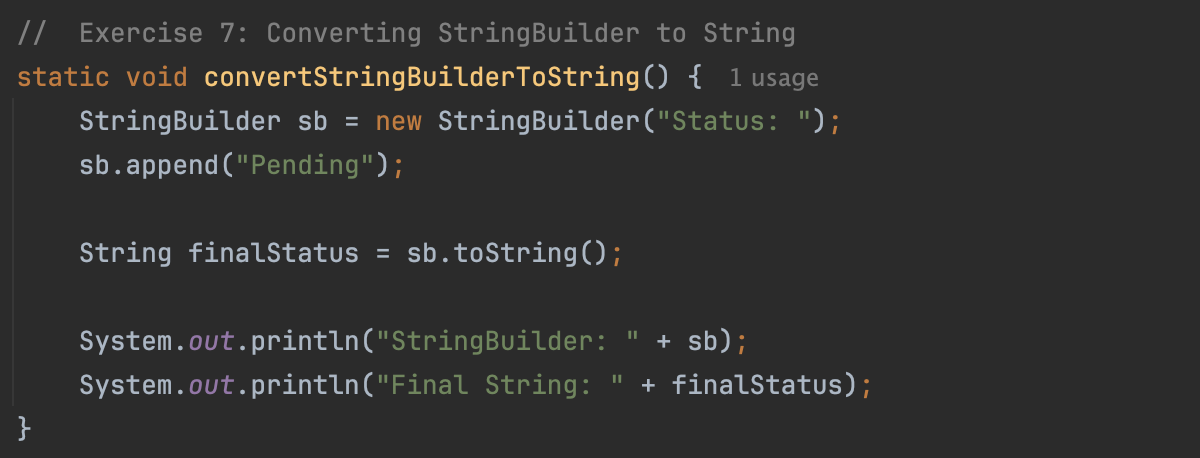
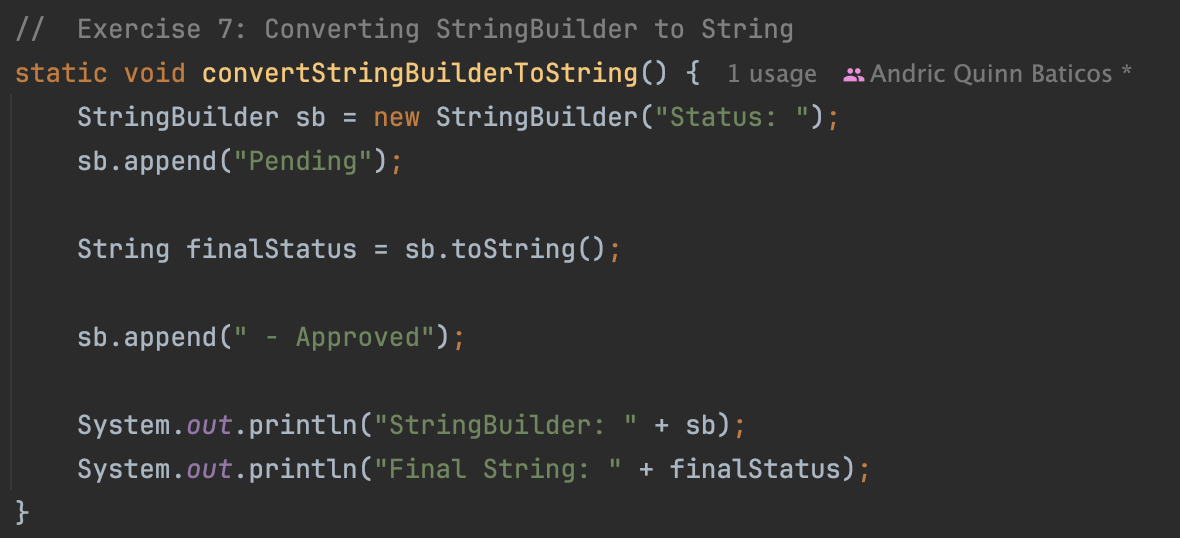
add sb.append to convertStringBuilderToString

diff --git a/src/main/java/ExploringStringBuilder.java b/src/main/java/ExploringStringBuilder.java
@@ -70,6 +70,8 @@ public class ExploringStringBuilder {
 
 		String finalStatus = sb.toString();
 
+		sb.append(" - Approved");
+
 		System.out.println("StringBuilder: " + sb);
 		System.out.println("Final String: " + finalStatus);
 	}

diff --git a/README.md b/README.md
@@ -100,10 +100,10 @@ Developed by: Baticos, Andric Quinn S.
 
 ![Screenshot Proof](/ss/e7-cs.png?raw=true "exercise-7-code-snippet")
 
-**Prediction**: _This code will output "Status: Pending" for both println._
+**Prediction**: _This code will output "Status: Pending - Approved" for sb while "Status: Pending"._
 
 **Output**
 
 ![Screenshot Proof](/ss/e7-o.png?raw=true "exercise-7-output")
 
-**Observation**: _As expected, the program outputted "Status: Pending" for both._
+**Observation**: _As expected, the program outputted "Status: Pending - Approved" and "Status: Pending" respectively._
